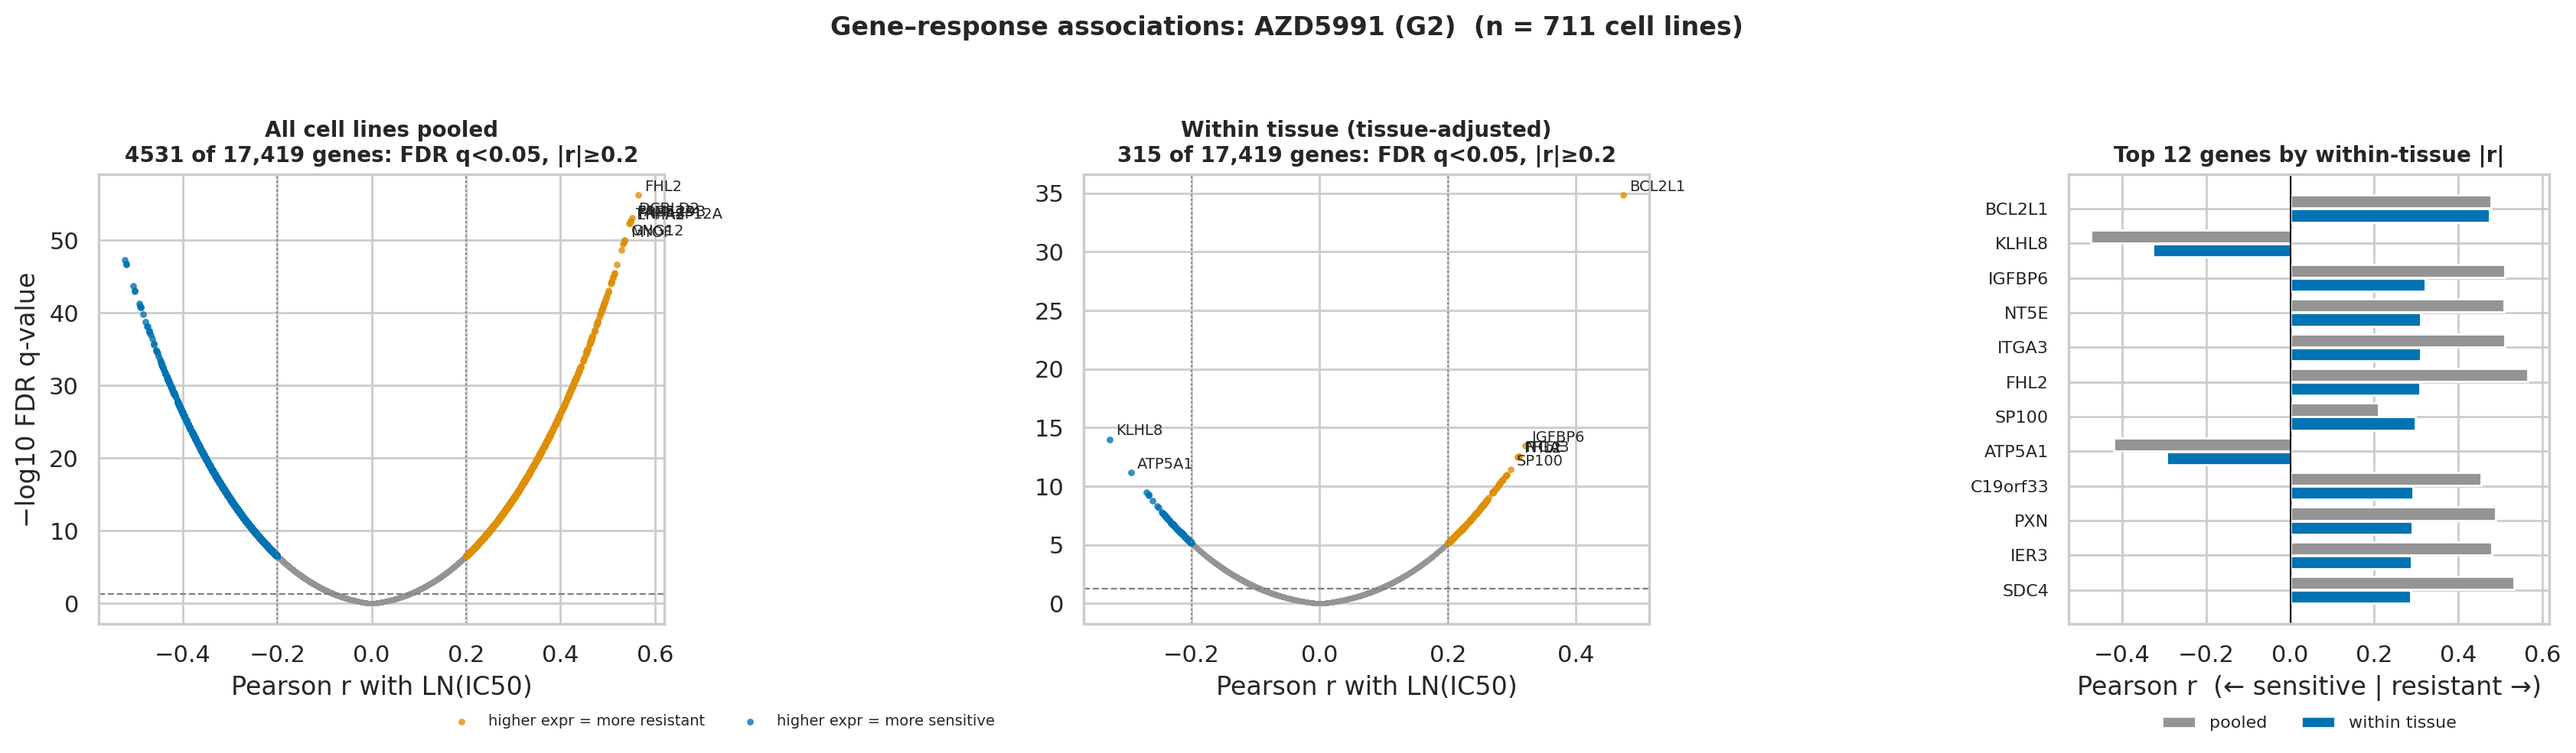
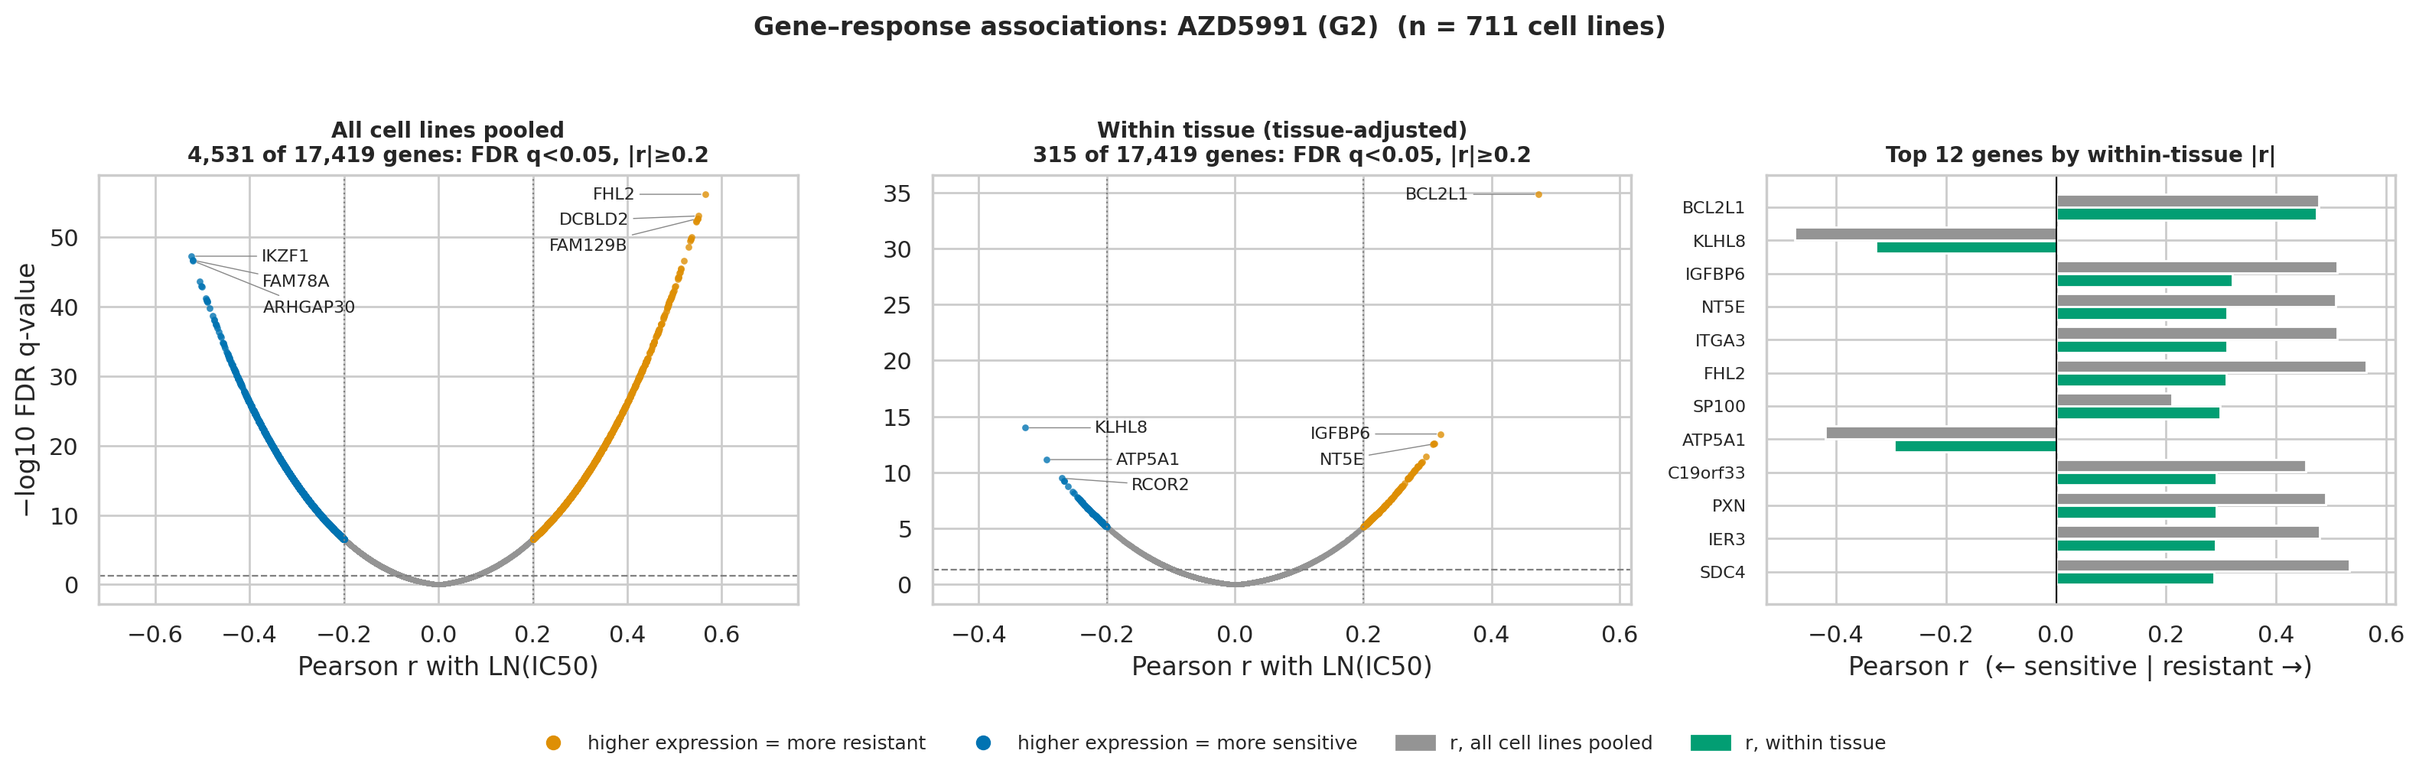
Fixed overlapping legends, added top gene summary table

diff --git a/make_figures.py b/make_figures.py
@@ -307,7 +307,7 @@ def _spread_labels(ax, pts, toward_right):
 
 
 def fig_biomarker_panels(drug, X, y, groups, out, q_thr=0.05, r_thr=0.2,
-                         n_label=5, n_bars=12):
+                         n_label=3, n_bars=12, n_table=20):
     from matplotlib.lines import Line2D
     from matplotlib.patches import Patch
     C_WITHIN = PAL[2]
@@ -361,6 +361,22 @@ def fig_biomarker_panels(drug, X, y, groups, out, q_thr=0.05, r_thr=0.2,
     safe = re.sub(r"[^\w\-]", "_", drug)
     save(fig, os.path.join(out, "biomarker"), f"biomarker_{safe}.png")
 
+    # tables for the README / downstream use
+    rows = []
+    sig = m[m.q_within < q_thr]
+    for direction, sub in [("resistance", sig[sig.r_within > 0]),
+                           ("sensitivity", sig[sig.r_within < 0])]:
+        sub = sub.reindex(sub.r_within.abs().sort_values(ascending=False).index).head(n_table)
+        for rank, row in enumerate(sub.itertuples(index=False), start=1):
+            rows.append({"Drug": drug, "Direction": direction, "Rank": rank,
+                         "Gene": row.gene, "r_within_tissue": row.r_within,
+                         "q_within_tissue": row.q_within,
+                         "r_pooled": row.r_pooled, "q_pooled": row.q_pooled})
+    counts = {"Drug": drug, "n_cell_lines": len(y), "n_genes_tested": len(naive),
+              "hits_pooled": int(((naive.q < q_thr) & (naive.r.abs() >= r_thr)).sum()),
+              "hits_within_tissue": int(((adj.q < q_thr) & (adj.r.abs() >= r_thr)).sum())}
+    return rows, counts
+
 
 # ── 8. One concrete biomarker, expression vs response ────────────────────────
 def fig_biomarker_example(drug, gene, X, y, groups, out, top_tissues=6):
@@ -394,6 +410,8 @@ def main():
     ap.add_argument("--out", default="results/figures")
     ap.add_argument("--drug", default=None, help="drug for the biomarker example")
     ap.add_argument("--gene", default=None, help="gene for the biomarker example")
+    ap.add_argument("--tables", default="results/tables",
+                    help="where to write biomarker_top_genes.csv and biomarker_hit_counts.csv")
     ap.add_argument("--n-biomarker-drugs", type=int, default=6,
                     help="number of top drugs to get gene-association panels")
     a = ap.parse_args()
@@ -417,10 +435,21 @@ def main():
     tis = load_tissue(a.data)
     ranked = res[res.Selected].sort_values("R2", ascending=False).Drug.tolist()
 
+    top_rows, count_rows = [], []
     for d in ranked[:a.n_biomarker_drugs]:
         fr = drug_frame(d, expr, tis, a.data)
         if fr is not None:
-            fig_biomarker_panels(d, *fr, a.out)
+            rows, counts = fig_biomarker_panels(d, *fr, a.out)
+            top_rows += rows
+            count_rows.append(counts)
+    if top_rows:
+        os.makedirs(a.tables, exist_ok=True)
+        pd.DataFrame(top_rows).to_csv(os.path.join(a.tables, "biomarker_top_genes.csv"),
+                                      index=False)
+        pd.DataFrame(count_rows).to_csv(os.path.join(a.tables, "biomarker_hit_counts.csv"),
+                                        index=False)
+        print("saved", os.path.join(a.tables, "biomarker_top_genes.csv"),
+              "and biomarker_hit_counts.csv")
 
     drug = a.drug or ranked[0]
     pe = imp[(imp.Drug == drug) & (imp.Method == "Pearson")].sort_values("Rank")
